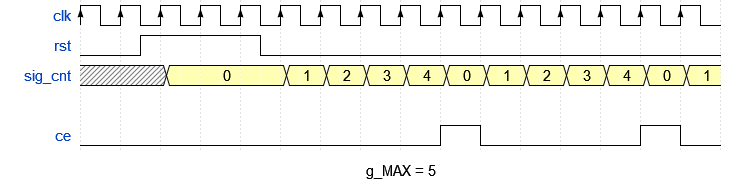
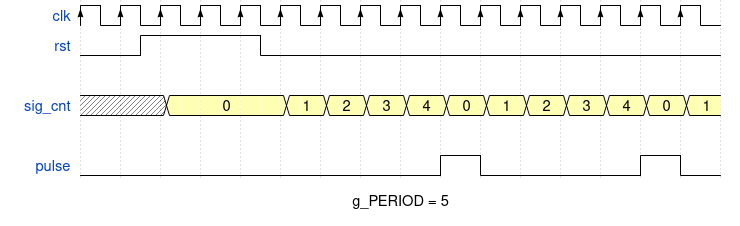
Port names in Wavedrom pic modified

diff --git a/labs/5-counter/README.md b/labs/5-counter/README.md
@@ -64,14 +64,15 @@ To drive another logic in the design (with slower clock), it is better to genera
   signal: [
     {name: "clk",     wave: 'P...............'},
     {name: "rst",     wave: 'lnh.pl..........'},
+    {},
     {name: "sig_cnt", wave: 'x.3..33333333333', data: ["0","1","2","3","4","0","1","2","3","4","0","1"]},
     {},
-    {name: "ce",      wave: 'l........hl...hl'},
+    {name: "pulse",   wave: 'l........hl...hl'},
   ],
   head: {
   },
   foot: {
-    text:'g_MAX = 5',
+    text:'g_PERIOD = 5',
   },
 }
 ```
@@ -93,18 +94,91 @@ To drive another logic in the design (with slower clock), it is better to genera
       | `rst` | input   | `std_logic` | Synchronous reset |
       | `pulse` | output | `std_logic` | Clock enable pulse |
 
+2. Add **Generic** to `entity` declaration. It allows us to pass information into an entity and component. Since a generic cannot be modified inside the architecture, it is like a constant.
 
+   ```vhdl
+   entity clock_enable is
+     generic (
+       g_PERIOD : integer := 5 --! Number of clk periods to generate ouput pulse
+     );                        -- Note that THERE IS a semicolon between generic
+                               -- and port sections
+     port (
+       clk : in    std_logic;  --! Main clock
+       rst : in    std_logic;  --! High-active synchronous reset
+       ce  : out   std_logic   --! Clock enable pulse signal
+     );
+   end entity clock_enable;
+   ```
 
+3. Add package for arithmetic operations to the beginning of VHDL file.
 
+   ```vhdl
+   library ieee;
+     use ieee.std_logic_1164.all;
+     use ieee.numeric_std.all; -- Package for arithmetic operations
+   ```
 
+4. Copy/paste the [clock enable architecture](https://www.edaplayground.com/x/5LiJ) to your `clock_enable.vhd` file. Take a look at the new parts of the VHDL source code, such as internal signal declaration and [synchronous process](https://github.com/tomas-fryza/vhdl-course/wiki/Processes).
 
-   4. Open the [Clock enable circuit example](https://www.edaplayground.com/x/5LiJ) and copy/paste the `design.vhd` code to your `clock_enable.vhd` file. Take a look at the new parts of the VHDL source code, such as package for arithmetic operations, `generic` part, internal signal, and [synchronous process](https://github.com/tomas-fryza/vhdl-course/wiki/Processes). **Generic** allows us to pass information into an entity and component. Since a generic cannot be modified inside the architecture, it is like a constant.
+   ```vhdl
+   architecture behavioral of clock_enable is
 
-   5. Create a VHDL [simulation source](https://www.edaplayground.com/x/5LiJ) `tb_clock_enable` and run the simulation. Verify the meaning of the constant `c_MAX` and reset generation process.
+     -- Local counter
+     signal sig_cnt : natural;
+
+   begin
+
+     --------------------------------------------------------
+     -- p_clk_enable:
+     -- Generate clock enable signal. By default, enable signal
+     -- is low and generated pulse is always one clock long.
+     --------------------------------------------------------
+     p_clk_enable : process (clk) is
+     begin
+
+       if (rising_edge(clk)) then            -- Synchronous process
+         if (rst = '1') then                 -- High-active reset
+           sig_cnt <= 0;                     -- Clear local counter
+           pulse   <= '0';                   -- Set output to low
+
+         -- Test number of clock periods
+         elsif (sig_cnt >= (g_PERIOD-1)) then
+           sig_cnt <= 0;                     -- Clear local counter
+           pulse   <= '1';                   -- Generate clock enable pulse
+         else
+           sig_cnt <= sig_cnt + 1;
+           pulse   <= '0';
+         end if;
+       end if;
+
+     end process p_clk_enable;
+
+   end architecture behavioral;
+   ```
+
+5. [Generate](https://vhdl.lapinoo.net/testbench/) or copy/paste the VHDL [simulation source](https://www.edaplayground.com/x/5LiJ) `tb_clock_enable` and run the simulation. Verify the meaning of `g_PERIOD` and reset generation process.
 
    The default simulation run time is set to 1000&nbsp;ns in Vivado. Note that, you can change it in the menu **Tools > Settings...**
 
       ![Specify simulation run time in Vivado](images/screenshot_vivado_run_time.png)
+
+
+
+
+
+
+
+
+
+
+
+
+
+
+
+
+
+
 
 <a name="part2"></a>
 
